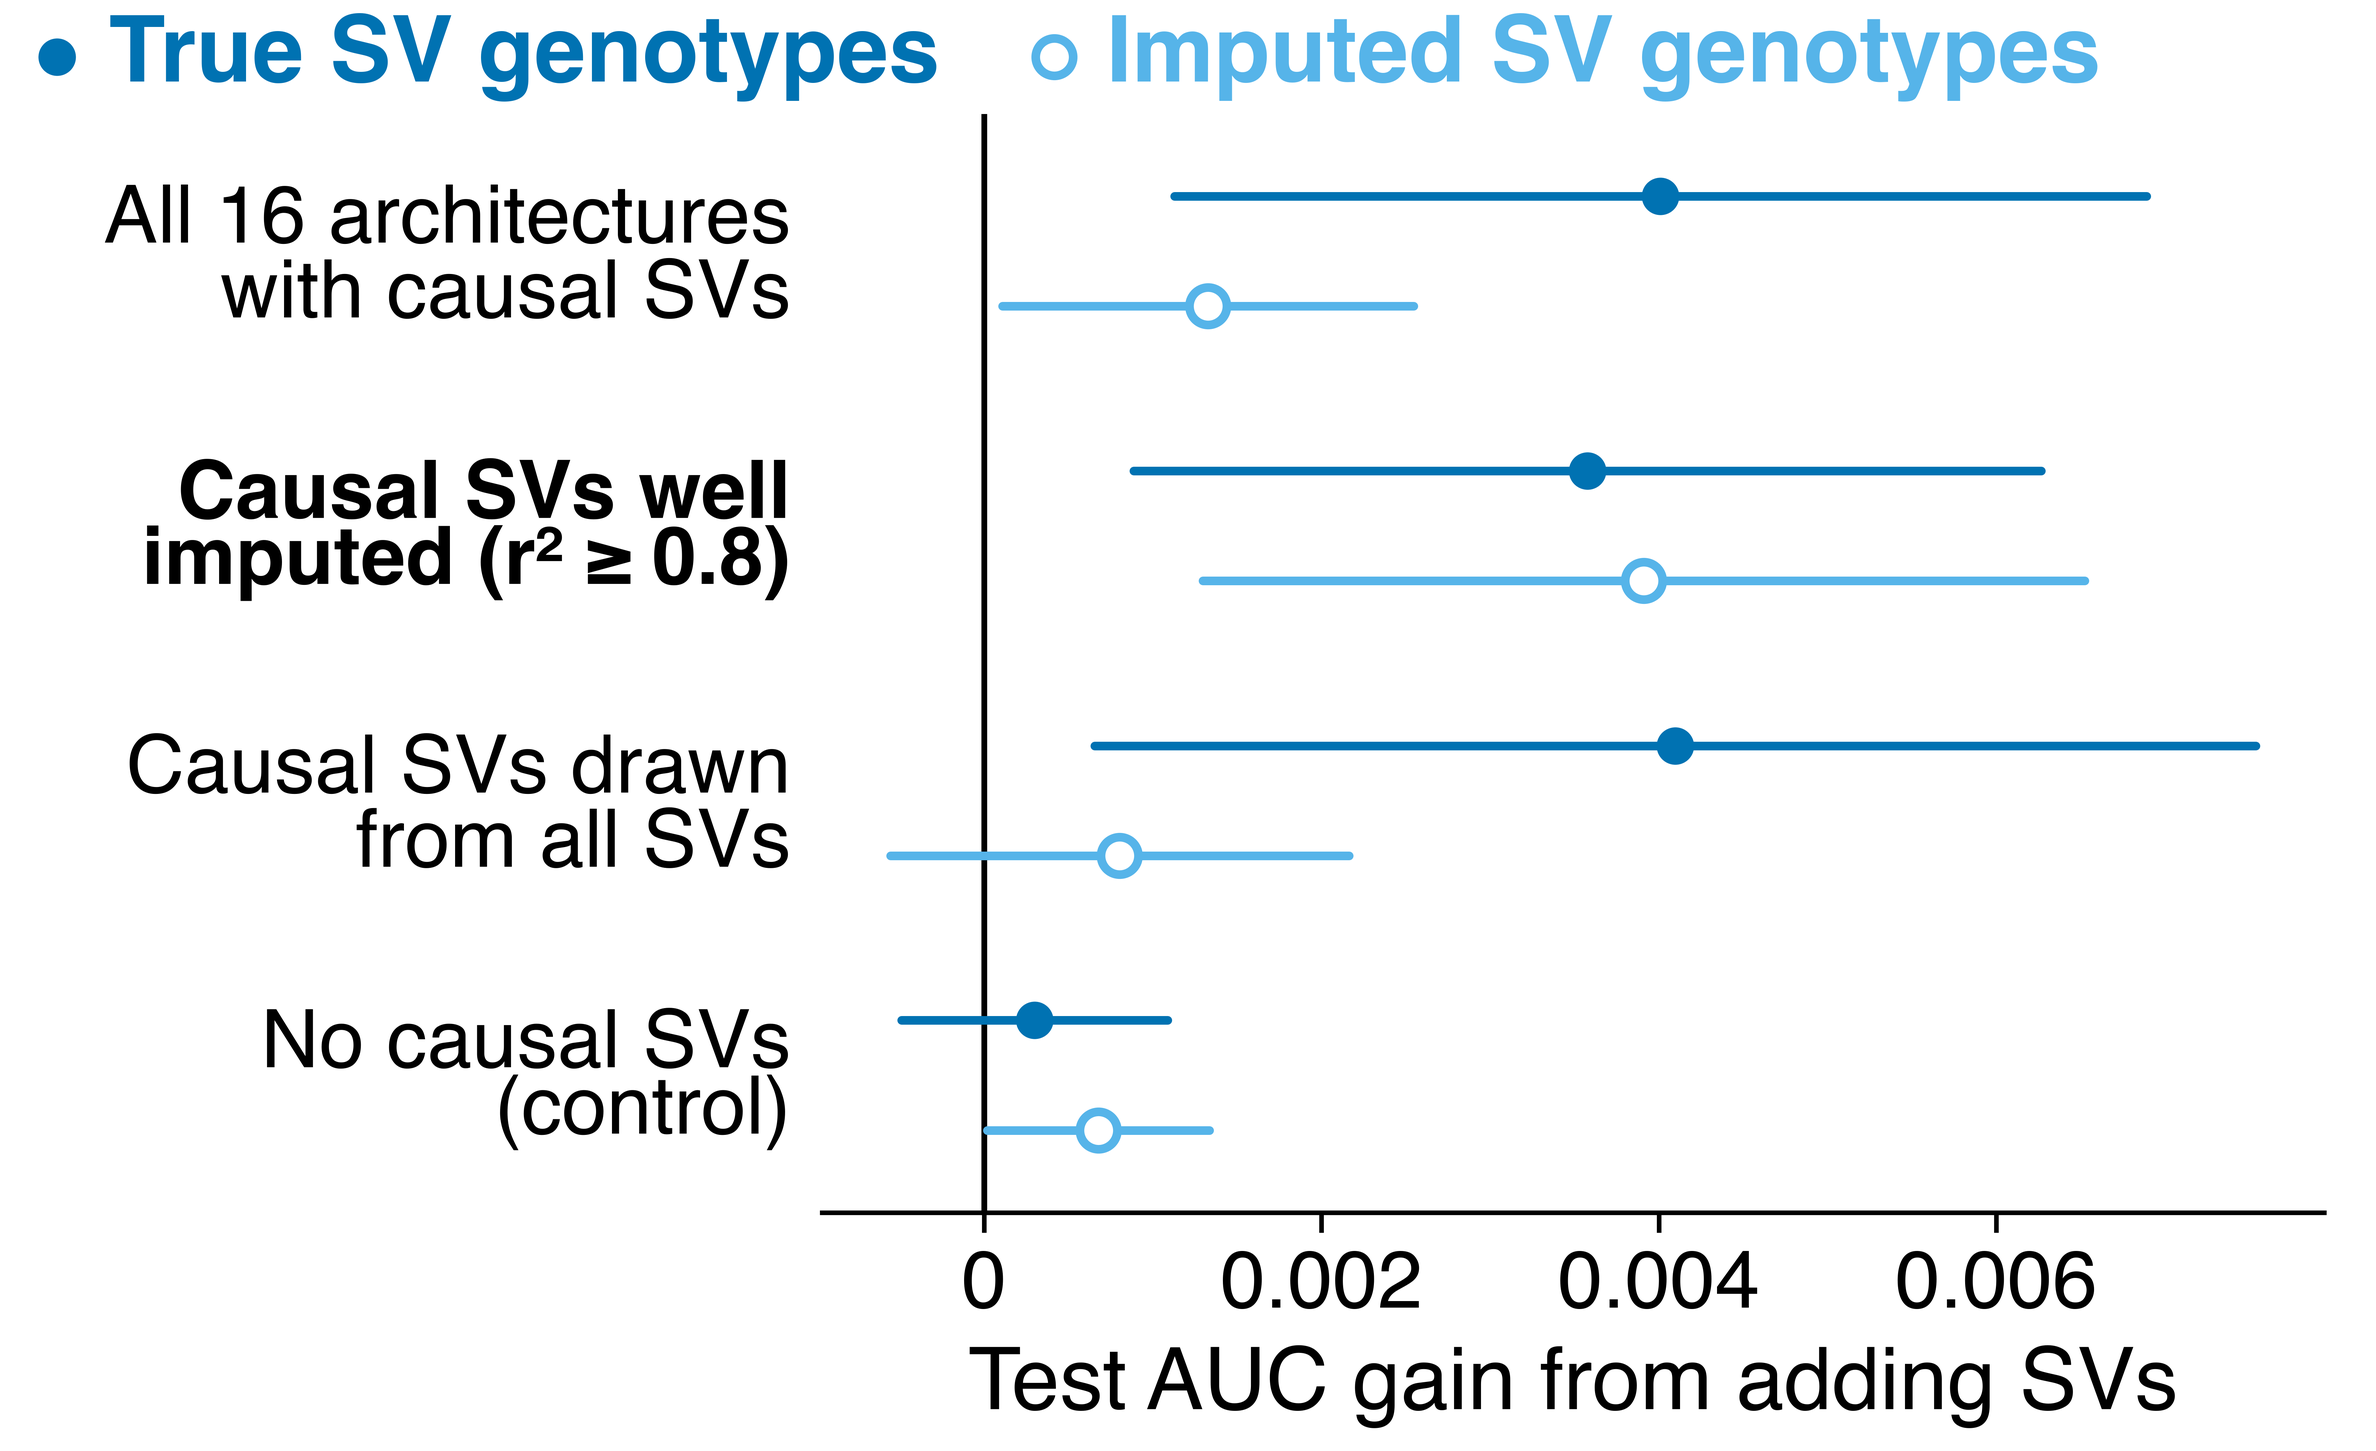
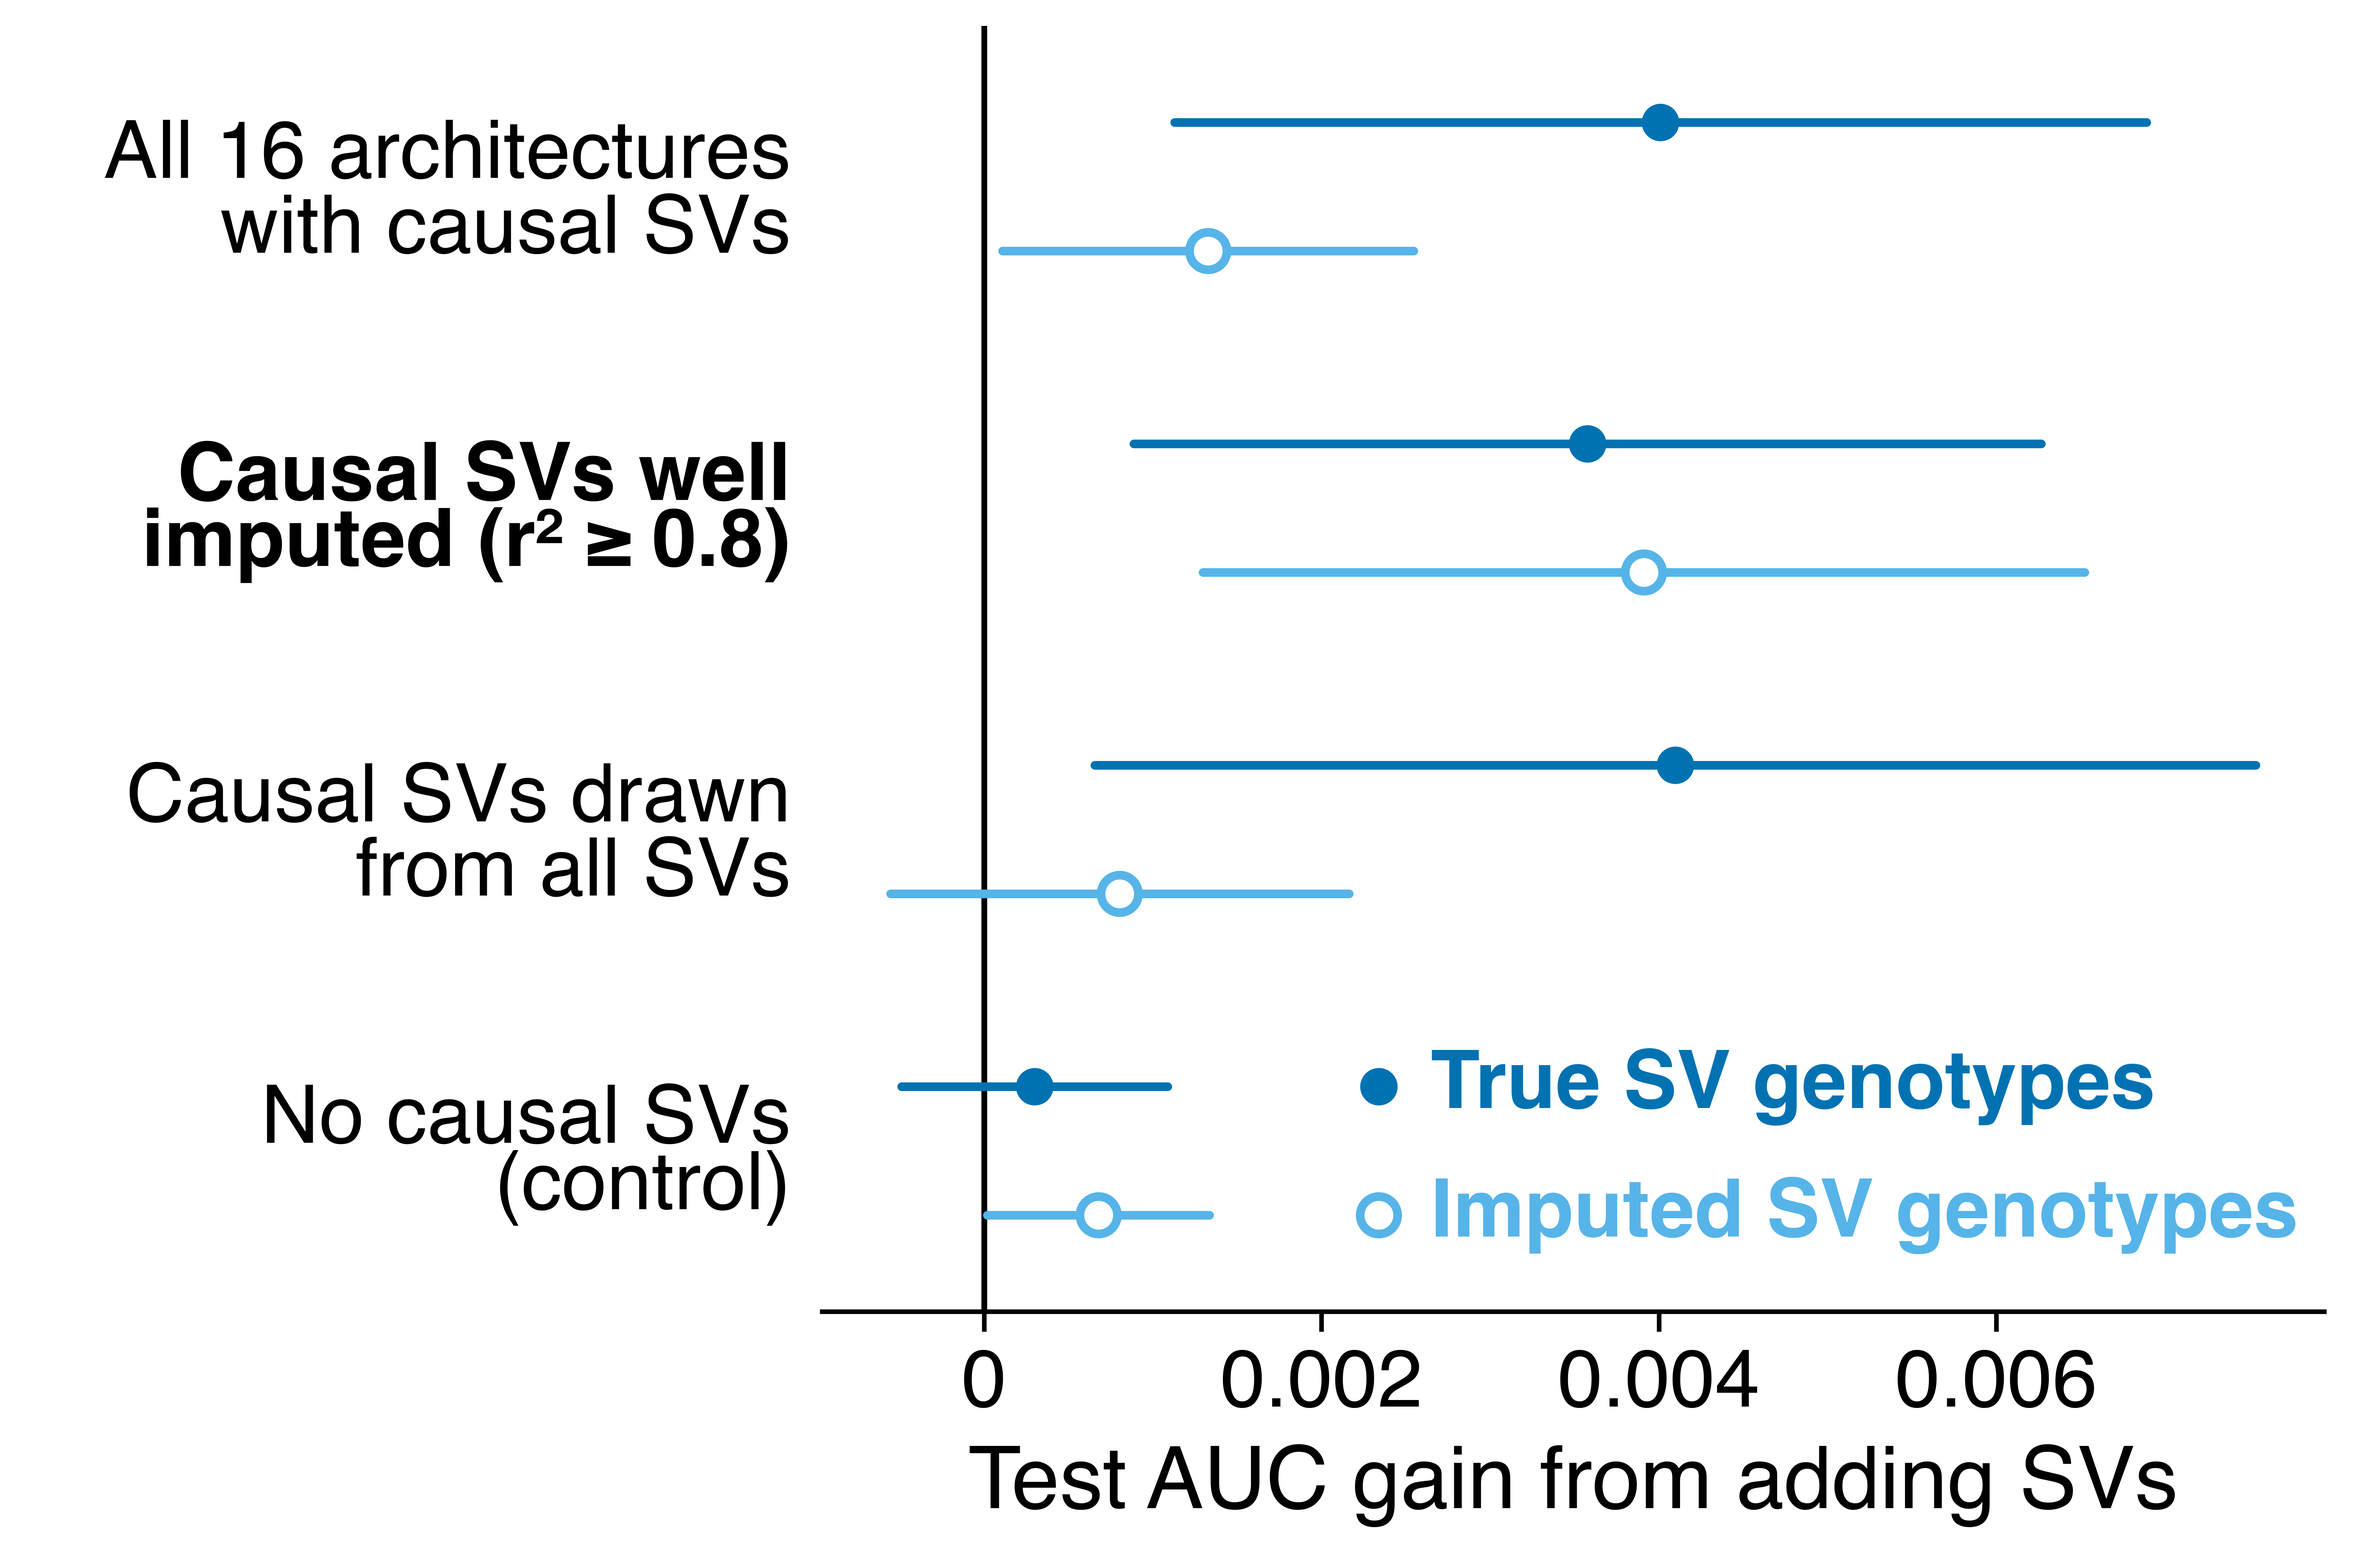
The SV-gain figure names its two genotype sources inside the plot, and the plot takes the height the line above it used (docs/poster/ashg2026/sim_gallery.py, poster_sv_gain_figure). The figure rules put legends in empty plot space. "True SV genotypes" and "Imputed SV genotypes" now sit right of the 

diff --git a/docs/poster/ashg2026/sim_gallery.py b/docs/poster/ashg2026/sim_gallery.py
@@ -945,7 +945,7 @@ def poster_sv_gain_figure(grids):
                  for key, row in sets.items()},
     }
     rows = list(sets.values())
-    pitch, top, bottom, right = 2.65, 1.1, 2.3, 0.5
+    pitch, top, bottom, right = 3.1, 0.25, 2.3, 0.5
     height = top + bottom + pitch * len(rows)
     fig = plt.figure(figsize=(POSTER_GAIN, height))
     left = widest(fig, [row["label"] for row in rows], fontsize=POSTER_TYPE, fontweight="bold", linespacing=1.0) + 0.75
@@ -974,14 +974,17 @@ def poster_sv_gain_figure(grids):
     ticks = np.arange(math.ceil(limits[0] / step) * step, limits[1], step)
     ax.set_xticks(ticks, [plain(tick, 3) for tick in ticks])
     ax.set_xlabel("Test AUC gain from adding SVs")
-    # the two genotype sources named once over the whole figure, labels and plot, each after a mark like its own
-    first = widest(fig, [SOURCES[0][0]], fontsize=POSTER_NAME, fontweight="bold")
-    for across, (label, color, filled) in ((0.3, SOURCES[0]), (0.3 + first + 1.6, SOURCES[1])):
-        fig.add_artist(Line2D([(across + 0.25) / POSTER_GAIN], [1 - 0.55 / height], marker="o", markersize=POSTER_MARK,
-                              color=color, markerfacecolor=color if filled else "white",
-                              markeredgecolor=color, markeredgewidth=0 if filled else 6.0))
-        fig.text((across + 0.75) / POSTER_GAIN, 1 - 0.55 / height, label, color=color, fontsize=POSTER_NAME,
-                 fontweight="bold", va="center", ha="left")
+    # the two genotype sources named in the empty space right of the control row, each at its own marks' height
+    # there and after a mark like its own, the longer name ending 0.2 in inside the plot's right edge
+    across = POSTER_GAIN - left - right - 0.2 - widest(fig, [label for label, _, _ in SOURCES], fontsize=POSTER_TYPE,
+                                                       fontweight="bold")
+    for offset, (label, color, filled) in ((-0.2, SOURCES[0]), (0.2, SOURCES[1])):
+        y = len(rows) - 1 + offset
+        ax.plot([0], [y], "o", transform=shifted(ax, across - 0.5), markersize=POSTER_MARK, color=color,
+                markerfacecolor=color if filled else "white", markeredgecolor=color,
+                markeredgewidth=0 if filled else 6.0, clip_on=False, zorder=4)
+        ax.text(0, y, label, transform=shifted(ax, across), color=color, fontsize=POSTER_TYPE, fontweight="bold",
+                va="center", ha="left")
     description = (
         "Test AUC gain from adding SVs to SV-PGS with true (filled) and Beagle-imputed (open) SV genotypes, mean and 95% "
         "interval over simulated truths, for every architecture with causal SVs, those whose causal SVs are well "
